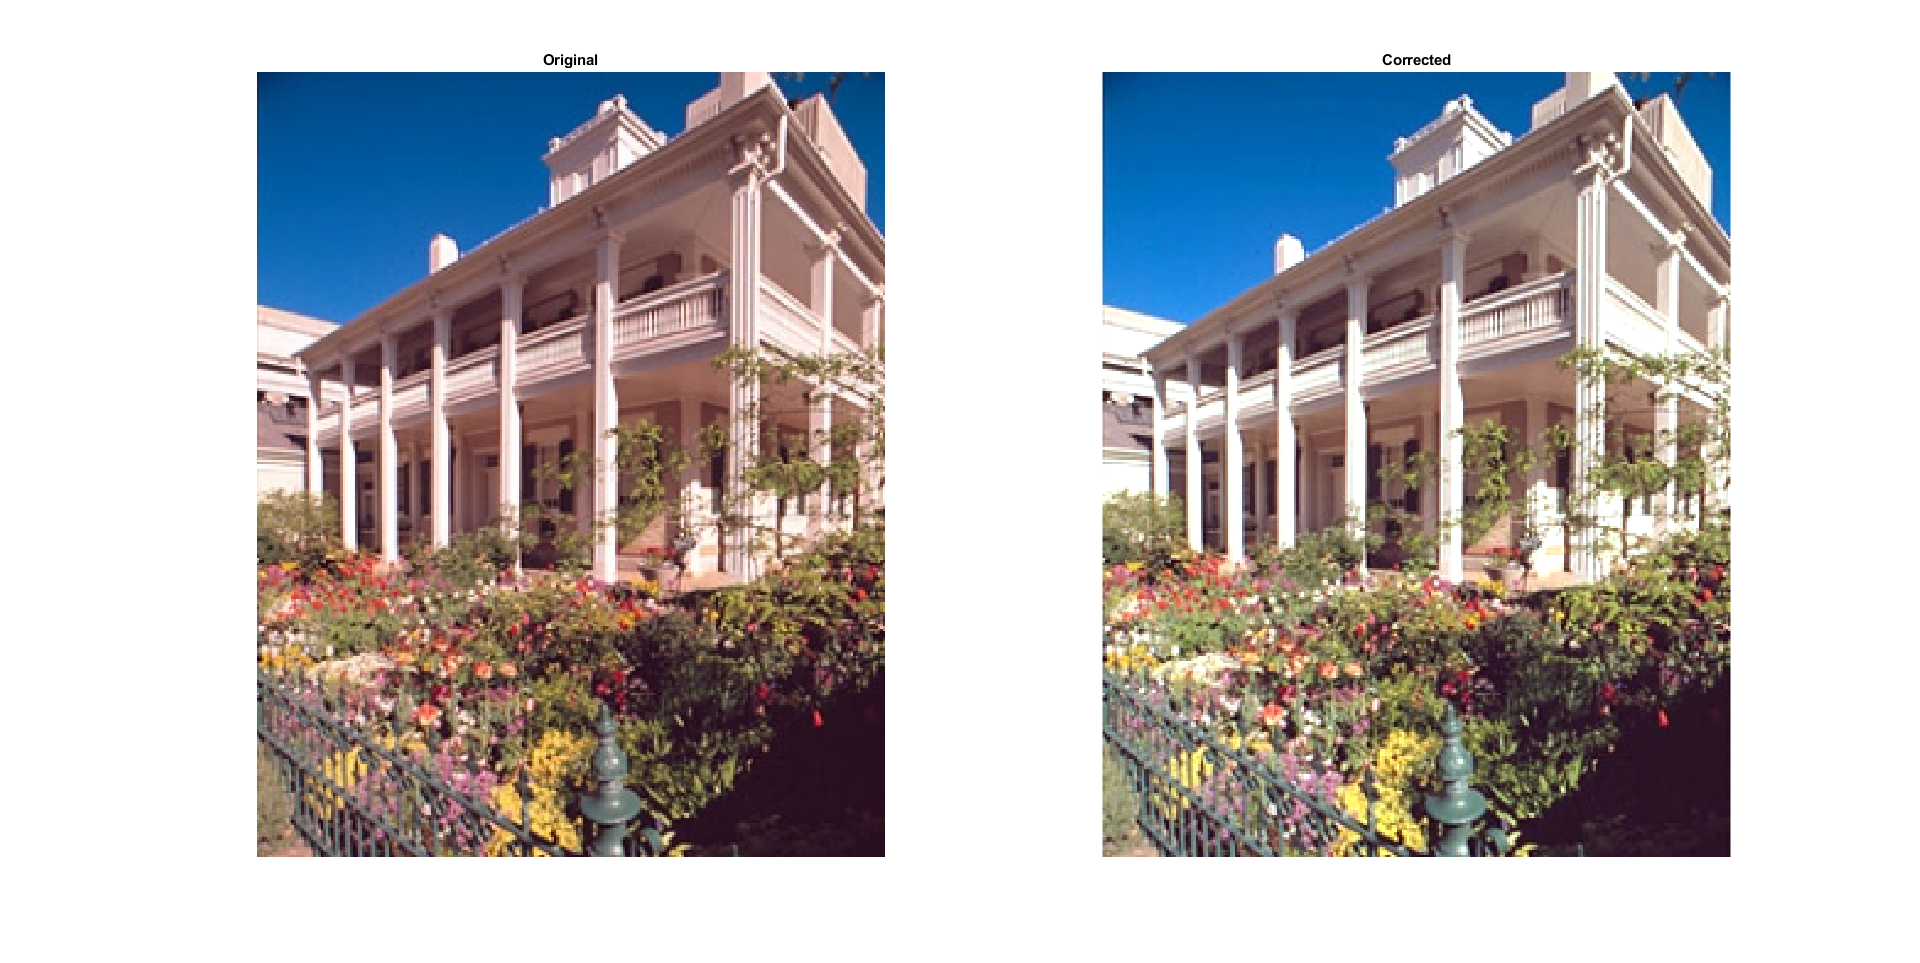
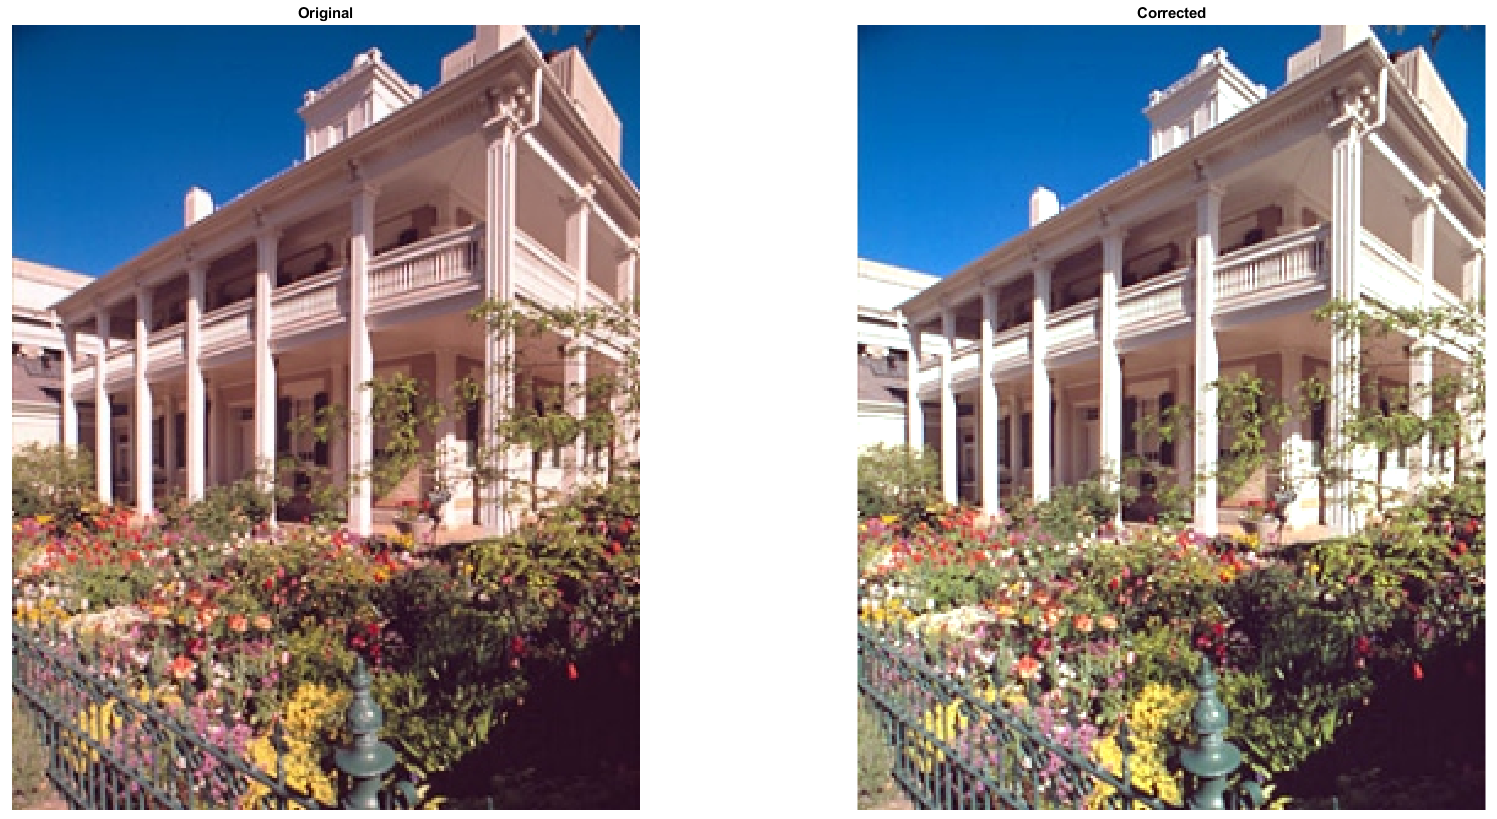
Cut result pictures, added an example of a not correctly working image

diff --git a/color_constancy/AWB.m b/color_constancy/AWB.m
@@ -1,7 +1,7 @@
 function [] = AWB()
     %%
     % load image into memory and preallocate space for corrected version
-    original = im2double(imread('awb.jpg'));
+    original = im2double(imread('blue.jpg'));
     corrected = zeros(size(original));
 
     % calculate mean RGB color and illumination
